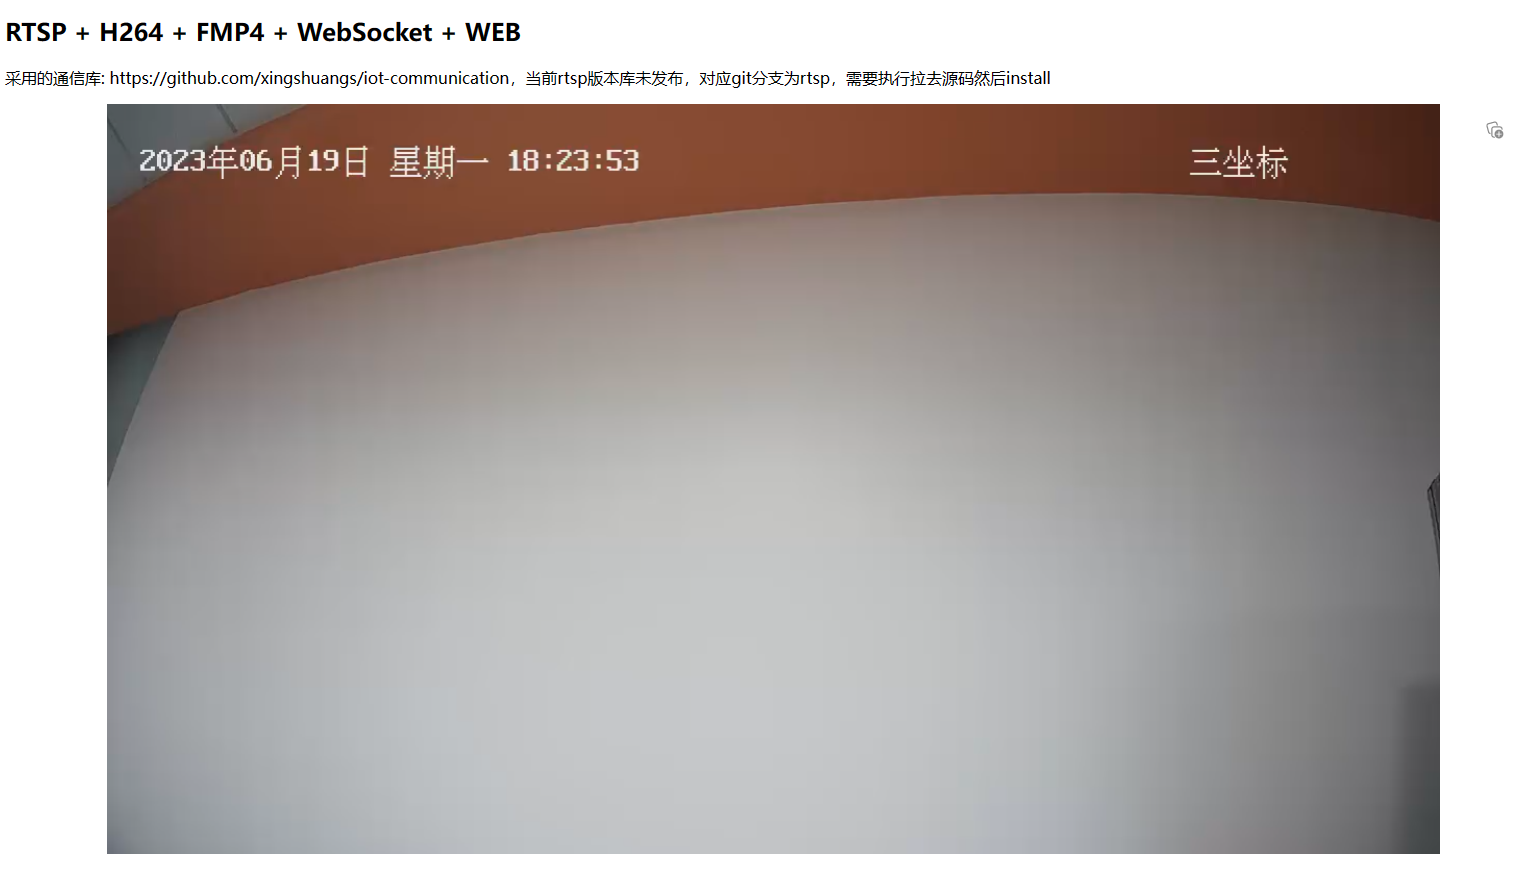
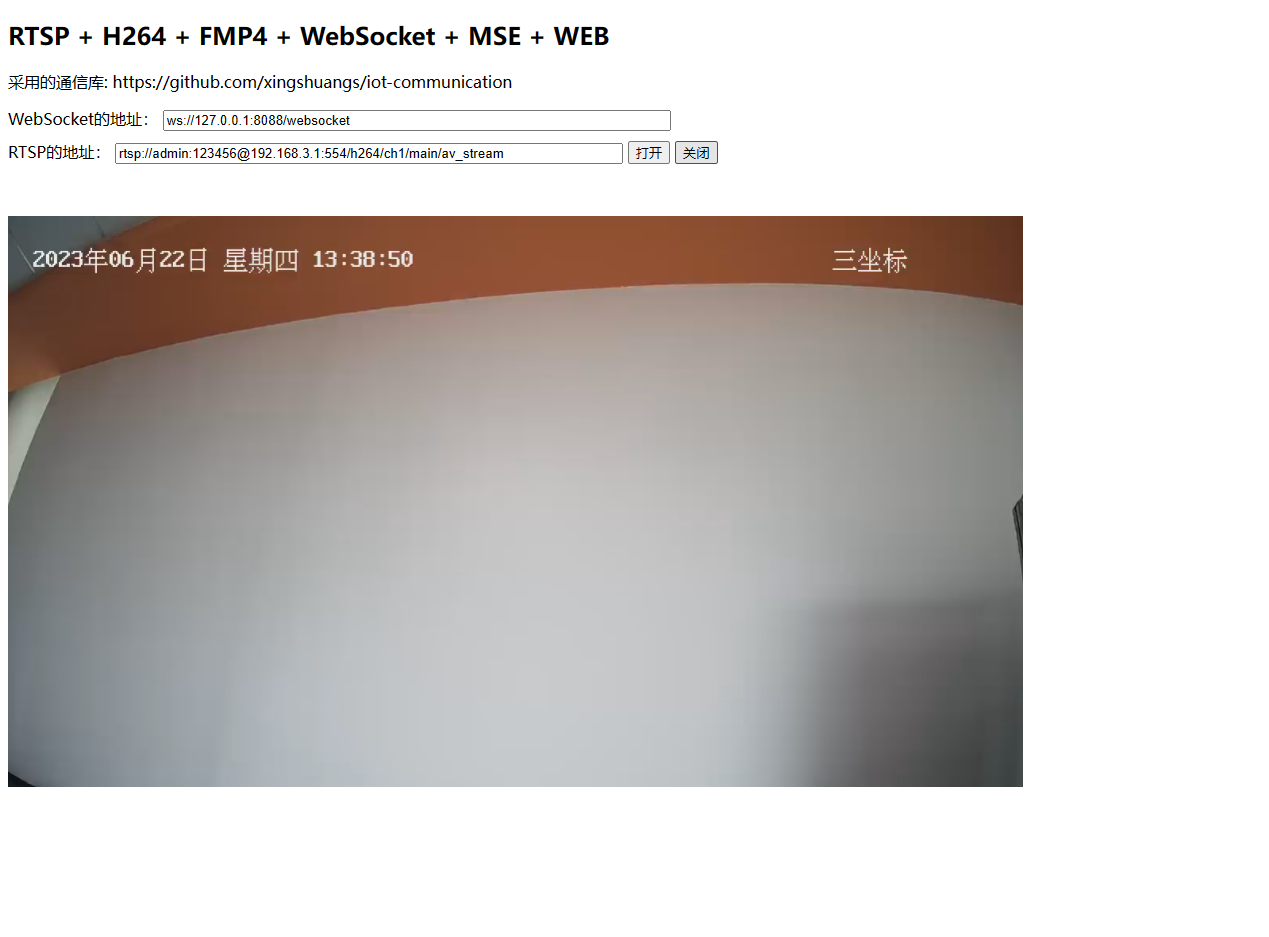
feat: 1# 修改访问地址; 2# 默认采用UDP; 3# 修改图片;

diff --git a/src/main/resources/static/rtspStream.js b/src/main/resources/static/rtspStream.js
@@ -21,8 +21,9 @@ class RtspStream {
         if (typeof (evt.data) == "string") {
             this.init(evt.data)
         } else {
-            // console.log(evt.data)
-            this.queue.push(new Uint8Array(evt.data));
+            const data = new Uint8Array(evt.data);
+            // console.log(data)
+            this.queue.push(data);
             if (this.canFeed) {
                 this.feedNext();
             }
@@ -89,6 +90,7 @@ class RtspStream {
 
         if (this.sourceBuffer && !this.sourceBuffer.updating) {
             const data = this.queue.shift();
+            // console.log(data);
             this.sourceBuffer.appendBuffer(data);
         }
     }

diff --git a/src/main/resources/templates/client.html b/src/main/resources/templates/client.html
@@ -19,7 +19,8 @@
     <button id="openBtn" type="button" onclick="rtspOpen()">打开</button>
     <button id="closeBtn" type="button" onclick="rtspClose()">关闭</button>
 </div>
-<video id="testVideo" autoplay muted style="height: 70vh; width: 80vw"></video>
+<!--<video id="testVideo" autoplay muted style="height: 70vh; width: 80vw"></video>-->
+<video id="testVideo" autoplay muted controls style="height: 70vh; width: 80vw"></video>
 
 <script>
     let rtsp;

diff --git a/src/main/java/com/github/xingshuangs/rtsp/server/controller/WebSocketServer.java b/src/main/java/com/github/xingshuangs/rtsp/server/controller/WebSocketServer.java
@@ -2,6 +2,7 @@ package com.github.xingshuangs.rtsp.server.controller;
 
 import com.github.xingshuangs.iot.protocol.rtsp.authentication.DigestAuthenticator;
 import com.github.xingshuangs.iot.protocol.rtsp.authentication.UsernamePasswordCredential;
+import com.github.xingshuangs.iot.protocol.rtsp.enums.ERtspTransportProtocol;
 import com.github.xingshuangs.iot.protocol.rtsp.service.RtspClient;
 import com.github.xingshuangs.iot.protocol.rtsp.service.RtspFMp4Proxy;
 import lombok.extern.slf4j.Slf4j;
@@ -90,7 +91,7 @@ public class WebSocketServer {
                 UsernamePasswordCredential credential = UsernamePasswordCredential.createBy(srcUri.getUserInfo());
                 authenticator = new DigestAuthenticator(credential);
             }
-            RtspClient client = new RtspClient(uri, authenticator);
+            RtspClient client = new RtspClient(uri, authenticator, ERtspTransportProtocol.UDP);
             this.rtspFMp4Proxy = new RtspFMp4Proxy(client);
             this.rtspFMp4Proxy.onFmp4DataHandle(x -> {
                 ByteBuffer wrap = ByteBuffer.wrap(x);

diff --git a/src/main/java/com/github/xingshuangs/rtsp/server/controller/PageController.java b/src/main/java/com/github/xingshuangs/rtsp/server/controller/PageController.java
@@ -10,7 +10,7 @@ import org.springframework.web.bind.annotation.RequestMapping;
 @Controller
 public class PageController {
 
-    @RequestMapping("/client")
+    @RequestMapping("")
     public String client() {
         return "client";
     }

diff --git a/README.md b/README.md
@@ -10,6 +10,6 @@
 
 ## 使用指南
 
-登录访问地址：http://127.0.0.1:8088/client
+登录访问地址：http://127.0.0.1:8088
 
-[![rtsp-websocket.png](https://i.postimg.cc/63gMnY7M/rtsp-websocket.png)](https://i.postimg.cc/63gMnY7M/rtsp-websocket.png)
+![rtsp-websocket.png](https://i.postimg.cc/vBZzrGQB/img.png)
